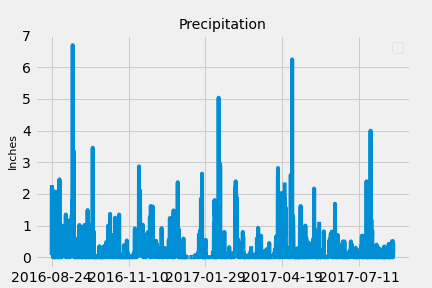
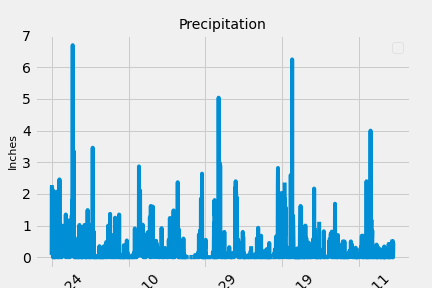
Nov21 Update

Changed region(s): [[0.0301, 0.9375, 0.9329, 1.0]]

diff --git a/sqlalchemy_spyder.py b/sqlalchemy_spyder.py
@@ -17,6 +17,7 @@ from sqlalchemy.ext.automap import automap_base
 from sqlalchemy.orm import Session
 from sqlalchemy import create_engine, func
 
+# Establish DBAPI connection
 engine = create_engine('sqlite:///./Resources/hawaii.sqlite')
 
 # reflect an existing database into a new model
@@ -34,8 +35,6 @@ station = base.classes.station
 
 # Create our session (link) from Python to the DB
 session = Session(engine)
-
-# Exploratory Climate Analysis
 
 # Design a query to retrieve the last 12 months of precipitation data and plot the results
 lastDate = session.query(measurement.date).order_by(measurement.date.desc()).first().date
@@ -58,6 +57,7 @@ chart = precip_df.plot().get_figure()
 plt.title('Precipitation', fontsize=14)
 plt.ylabel('Inches', fontsize=11)
 plt.xlabel('Date', fontsize=11)
+plt.xticks(rotation=45)
 plt.legend('')
 chart.savefig('Output/Precipitation_Last12m.png')
 plt.show()
@@ -88,18 +88,11 @@ print('\033[1mStation      Counts\033[0m')
 for ActiveStationsDesc in ActiveStationsDesc:
     print(ActiveStationsDesc[0], '  ', ActiveStationsDesc[1])
 
-#stationActive = session.query(Measurement.station, func.count(Measurement.station)).\
-#group_by(Measurement.station).\
-#order_by(func.count(Measurement.station).\
-#desc()).\
-#all()
-#stationActive
-
 # Using the station id from the previous query, calculate the lowest temperature recorded, 
 # highest temperature recorded, and average temperature of the most active station?
 tempFreq = session.query(func.min(measurement.tobs), func.max(measurement.tobs), func.avg(measurement.tobs)).\
     filter(measurement.station == mostActiveStation).all()
-print('Lowest, highest and average temperatures:')
+print('\nLowest, highest and average temperatures:')
 print(f'\033[1mLow:\033[0m {tempFreq[0][0]}')
 print(f'\033[1mHigh:\033[0m {tempFreq[0][1]}')
 print(f'\033[1mAvg:\033[0m {round(tempFreq[0][2],2)}')

diff --git a/README.md b/README.md
@@ -1,25 +1,10 @@
-# sqlachemy-challenge
- NU10 Homework
+## 10-SQLAlchemy Homework![](/smaller_sufts-up.png)
+## SQLAlchemy-Challenge![](/sqlalchemyImage.jpg)
+ * **Input file** - located within Resources folder, hawaii.sqlite
+ * **Output CSV data** - within data analysis [output](/output) folder
+ * **Assignment material** - located within [HW](/HW) folder.
 
-# SQLAlchemy Homework - Surfs Up!
-
-### Before You Begin
-
-1. Create a new repository for this project called `sqlalchemy-challenge`. **Do not add this homework to an existing repository**.
-
-2. Clone the new repository to your computer.
-
-3. Add your Jupyter notebook and `app.py` to this folder. These will be the main scripts to run for analysis.
-
-4. Push the above changes to GitHub or GitLab.
-
-![surfs-up.png](Images/surfs-up.png)
-
-Congratulations! You've decided to treat yourself to a long holiday vacation in Honolulu, Hawaii! To help with your trip planning, you need to do some climate analysis on the area. The following outlines what you need to do.
-
-## Step 1 - Climate Analysis and Exploration
-
-To begin, use Python and SQLAlchemy to do basic climate analysis and data exploration of your climate database. All of the following analysis should be completed using SQLAlchemy ORM queries, Pandas, and Matplotlib.
+Use Python and SQLAlchemy to do basic climate analysis and data exploration of your climate database. All of the following analysis should be completed using SQLAlchemy ORM queries, Pandas, and Matplotlib.
 
 * Use the provided [starter notebook](climate_starter.ipynb) and [hawaii.sqlite](Resources/hawaii.sqlite) files to complete your climate analysis and data exploration.
 
@@ -159,4 +144,3 @@ Now that you have completed your initial analysis, design a Flask API based on t
 ### Copyright
 
 Trilogy Education Services © 2020. All Rights Reserved.
-
